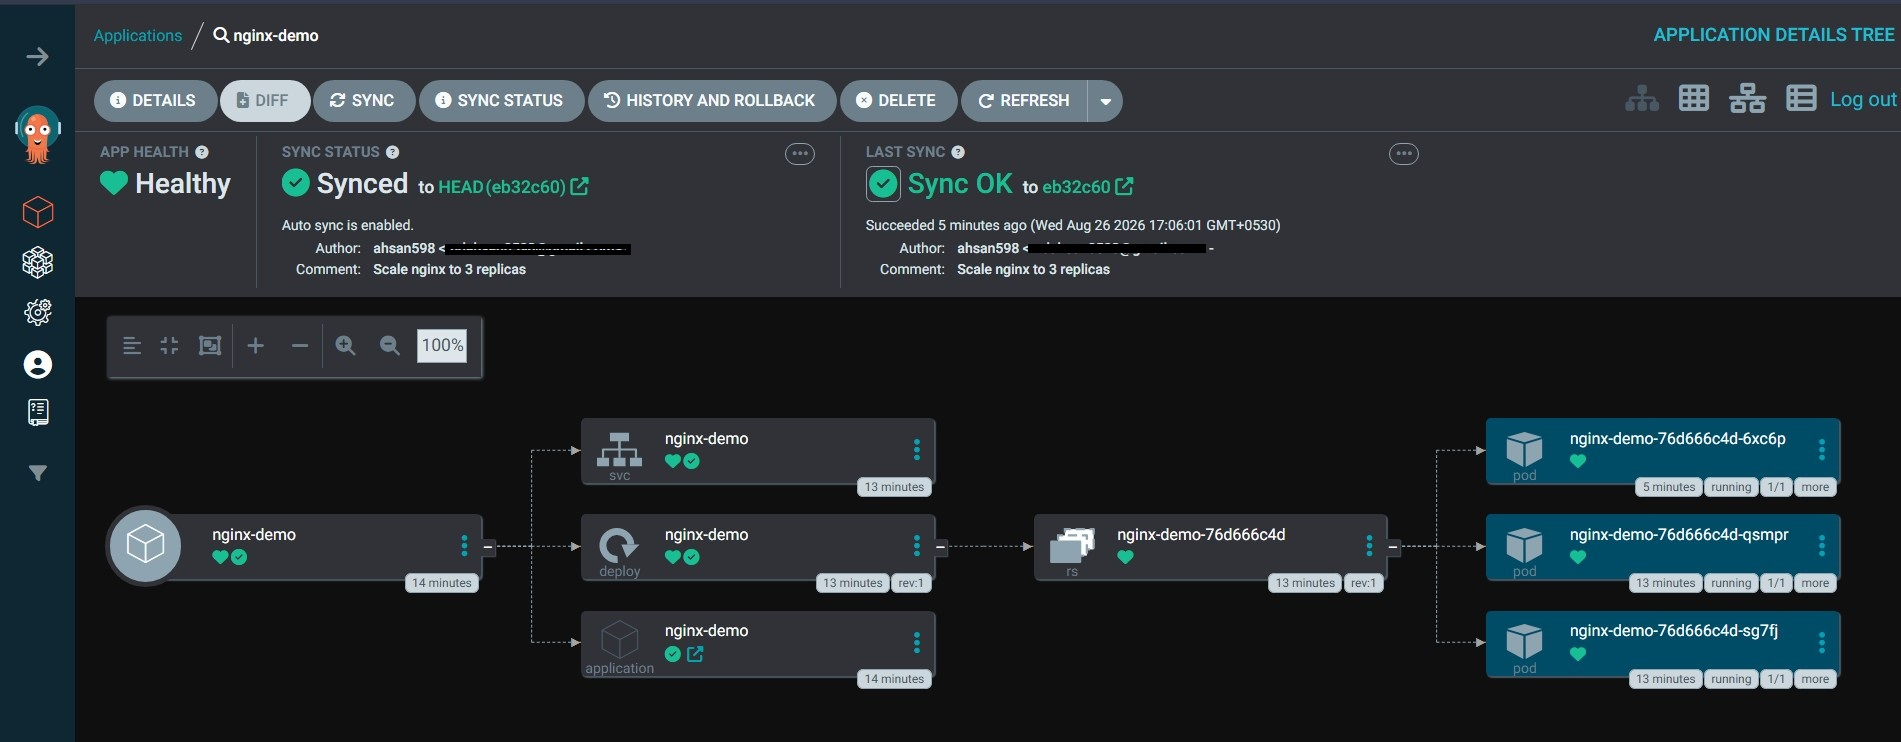
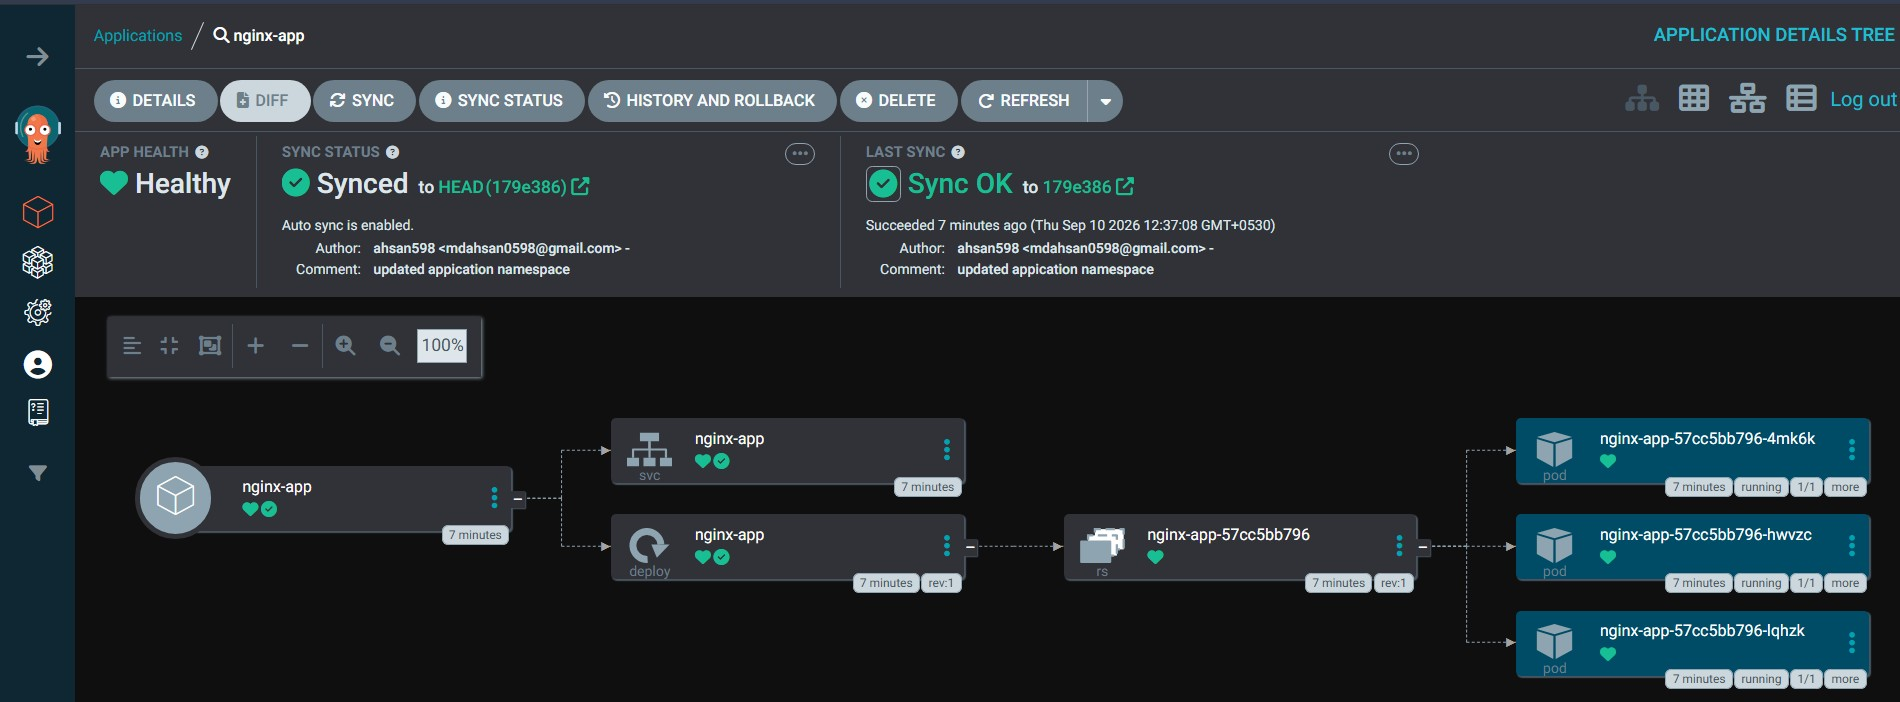
updated appication manifest & readme

diff --git a/readme.md b/readme.md
@@ -9,12 +9,14 @@ kubectl create namespace dev
 kubectl apply -f apps/nginx-app.yaml
 
 # verify nginx demo application
-kubectl get applications -n dev
+kubectl get applications -n argocd
 
-# 3. Verify Deployed Pods & Service in dev namespace
-kubectl get pods -n dev -l app=nginx-app
-kubectl get svc nginx-app -n dev
+# 3. Verify deployed pods & service in dev namespace
+kubectl get pods -n dev
+kubectl get svc -n dev
 ```
+![nginx-app](/assets/nginx-pods.jpg)
+
 ![argocd-deploy](/assets/argocd-deploy.jpg)
 
 **2. Test Local Application Access**
@@ -30,6 +32,6 @@ curl -I http://localhost:30080
 kubectl delete -f apps/nginx-app.yaml
 
 # Verify pods & service are terminated
-kubectl get pods -n dev -l app=nginx-app
-kubectl get svc nginx-app -n dev
+kubectl get pods -n dev
+kubectl get svc -n dev
 ```
